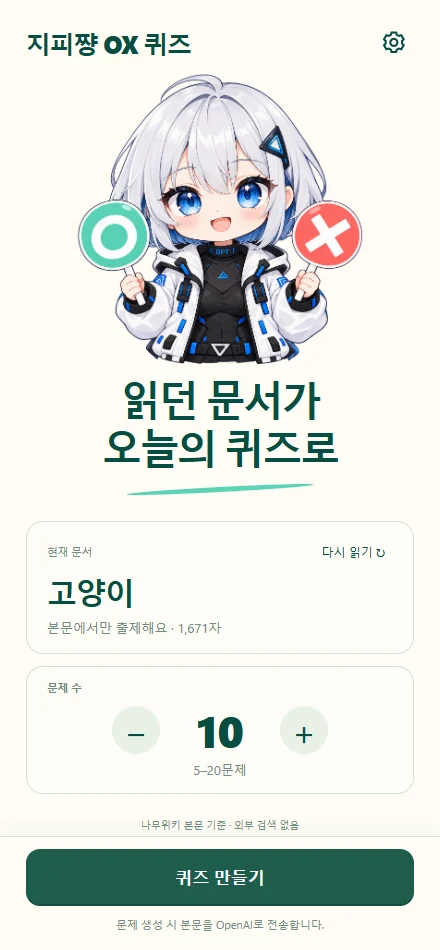
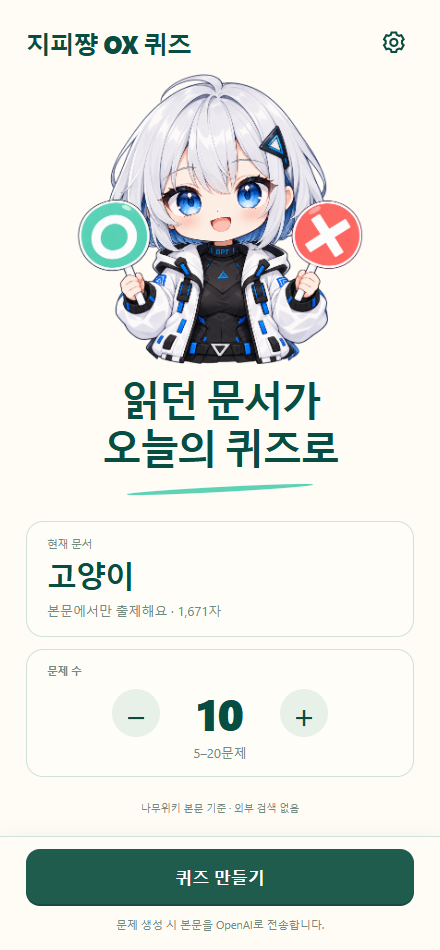
Release Day 018 0.1.7 with automatic document selection

diff --git a/day-018-namuwiki-ox/extension/sidepanel.js b/day-018-namuwiki-ox/extension/sidepanel.js
@@ -3,7 +3,7 @@ import {models,generateQuiz} from './provider.js';
 import {DEFAULT_MODEL,questionCount,isArticleUrl,validateArticle,score} from './shared/quiz.mjs';
 const $=id=>document.getElementById(id);
 const el=(tag,text)=>{const n=document.createElement(tag);n.textContent=text;return n;};
-let auth={},article=null,report=null,questions=[],answers={},index=0,sourceTabId=null,busy=false,reading=false,controller=null,stale=false;
+let auth={},article=null,report=null,questions=[],answers={},index=0,sourceTabId=null,busy=false,reading=false,controller=null;
 let view='welcome',contextSupported=false,contextRevision=0,generationTimer=null,generationStartedAt=0;
 let articleIssue='';
 const windowId=(await chrome.windows.getCurrent()).id;
@@ -26,22 +26,41 @@ function selectSettingsTab(name,focus=false){
 function renderView(){
   const settingsOpen=!$('settings').hidden;
   $('panel-content').hidden=settingsOpen;
-  for(const name of ['welcome','game','result'])$(name).hidden=busy || !contextSupported || view!==name;
-  $('generation').hidden=!busy;$('unsupported').hidden=busy || contextSupported;
-  $('unsupported-quiz').hidden=!report;
-  $('page-update').hidden=busy || !contextSupported || !stale || !auth.sharing;
+  for(const name of ['welcome','game','result'])$(name).hidden=busy || (name==='welcome' && !contextSupported) || view!==name;
+  $('generation').hidden=!busy;$('unsupported').hidden=busy || contextSupported || view!=='welcome';
   const create=!busy && contextSupported && view==='welcome' && !!auth.sharing;
-  const next=!busy && contextSupported && view==='game' && typeof answers[questions[index]?.id]==='boolean';
+  const next=!busy && view==='game' && typeof answers[questions[index]?.id]==='boolean';
   $('quiz-navigation').hidden=settingsOpen || (!create && !next);
   $('generate').hidden=!create;$('generation-disclosure').hidden=!create;$('next').hidden=!next;
 }
-async function syncContext(){
+async function syncContext({reload=false}={}){
   const revision=++contextRevision;
   const [active]=await chrome.tabs.query({active:true,windowId});
-  let supported=isArticleUrl(active?.url);
-  if(!supported && active?.url?.startsWith(chrome.runtime.getURL('')) && sourceTabId){const source=await chrome.tabs.get(sourceTabId).catch(()=>null);supported=source?.windowId===windowId && isArticleUrl(source.url);}
+  let tab=active;
+  if(!isArticleUrl(tab?.url) && active?.url?.startsWith(chrome.runtime.getURL('')) && sourceTabId){const source=await chrome.tabs.get(sourceTabId).catch(()=>null);if(source?.windowId===windowId && isArticleUrl(source.url))tab=source;}
   if(revision!==contextRevision)return;
-  contextSupported=!!supported;renderView();controls();
+  contextSupported=isArticleUrl(tab?.url);
+  const same=tab?.id===sourceTabId && article?.url.split('#')[0]===tab?.url?.split('#')[0];
+  if(!contextSupported){article=null;articleIssue='';reading=false;controls();return;}
+  sourceTabId=tab.id;
+  if(!auth.sharing){reading=false;controls();return;}
+  if(same && !reload && tab.status!=='loading'){reading=false;controls();return;}
+  article=null;articleIssue='';reading=true;
+  $('article-title').textContent='본문을 읽고 있어요…';$('article-info').textContent='본문에서만 출제해요';controls();
+  // Wait for the completed document instead of capturing the previous DOM on navigation.
+  if(tab.status==='loading')return;
+  try{
+    const {captured,issue}=await capture(tab);
+    if(revision!==contextRevision)return;
+    article=captured;articleIssue=issue;
+    $('article-title').textContent=article.title;
+    const chars=article.blocks.reduce((n,b)=>n+b.text.length,0);
+    $('article-info').textContent=`본문에서만 출제해요 · ${chars.toLocaleString()}자${article.truncated?' · 일부 본문':''}`;
+    if(view==='welcome' && !busy)message(!issue && article.truncated?'긴 문서라 화면에서 추출한 본문 중 앞부분 최대 60,000자만 출제 범위에 포함돼요.':'');
+  }catch(error){
+    if(revision!==contextRevision)return;
+    articleIssue=error.message;$('article-title').textContent='문서를 읽지 못했어요';$('article-info').textContent='문서를 다시 열면 본문을 자동으로 읽어요';
+  }finally{if(revision===contextRevision){reading=false;controls();}}
 }
 function generationStage(stage){
   const stages=['reading','creating','checking'],current=stages.indexOf(stage);
@@ -52,15 +71,15 @@ function controls(){
   $('generate').textContent=reading?'본문 읽는 중…':articleIssue || '퀴즈 만들기';
   $('generate').classList.toggle('unavailable',!!articleIssue);
   $('generate').title=articleIssue;
-  for(const id of ['count','read-page','refresh-page','model','fast','reload-models','clear-quiz'])$(id).disabled=busy || reading;
+  for(const id of ['count','model','fast','reload-models','clear-quiz'])$(id).disabled=busy || reading;
   $('minus').disabled=busy || Number($('count').value)<=5;$('plus').disabled=busy || Number($('count').value)>=20;
   $('stop').disabled=!busy;renderView();
 }
 async function save(){
   if(!report){await chrome.storage.session.remove(sessionKey);return;}
-  await chrome.storage.session.set({[sessionKey]:{report,questions,answers,index,sourceTabId,stale}});
+  await chrome.storage.session.set({[sessionKey]:{report,questions,answers,index,sourceTabId,view}});
 }
-function clear(){controller?.abort();article=null;articleIssue='';report=null;questions=[];answers={};index=0;sourceTabId=null;stale=false;view='welcome';void chrome.storage.session.remove(sessionKey);$('article-title').textContent='나무위키 문서를 열어 주세요';$('article-info').textContent='본문에서만 출제해요';controls();}
+function clear(){controller?.abort();contextRevision++;reading=false;article=null;articleIssue='';report=null;questions=[];answers={};index=0;sourceTabId=null;view='welcome';void chrome.storage.session.remove(sessionKey);$('article-title').textContent='나무위키 문서를 열어 주세요';$('article-info').textContent='본문에서만 출제해요';controls();}
 async function refreshAuth(){
   const was=auth.sharing;auth=await rpc('auth.status');
   $('login-gate').hidden=!!auth.sharing;$('workspace').hidden=!auth.sharing;
@@ -72,32 +91,13 @@ async function refreshAuth(){
   if(auth.error)message(auth.error);
   controls();return !!auth.sharing && !was;
 }
-async function activeArticleTab(){
-  const [active]=await chrome.tabs.query({active:true,windowId});
-  if(isArticleUrl(active?.url))return active;
-  // Only the extension's own test/full-page view or login result can reuse its source.
-  // An unrelated active website must never silently read a previously visited document.
-  if(active?.url?.startsWith(chrome.runtime.getURL('')) && sourceTabId){const tab=await chrome.tabs.get(sourceTabId).catch(()=>null);if(tab?.windowId===windowId && isArticleUrl(tab.url))return tab;}
-  throw Error('현재 창의 나무위키 문서 탭으로 돌아가서 다시 읽어 주세요.');
-}
-async function capture(){
-  const tab=await activeArticleTab();
+async function capture(tab){
   const result=await chrome.scripting.executeScript({target:{tabId:tab.id},func:extractArticle});
   if(!result[0]?.result)throw Error('본문을 읽지 못했어요. 나무위키 문서가 열린 뒤 다시 시도해 주세요.');
   const captured=result[0].result;let issue='';
   try{validateArticle(captured);}catch(error){if(!['article_too_short','article_too_long'].includes(error.code))throw error;issue=error.message;}
-  if(captured.url.split('#')[0]!==tab.url.split('#')[0])throw Error('문서가 이동했어요. 다시 읽어 주세요.');
-  sourceTabId=tab.id;article=captured;articleIssue=issue;stale=false;
-  $('article-title').textContent=article.title;
-  const chars=article.blocks.reduce((n,b)=>n+b.text.length,0);
-  $('article-info').textContent=`본문에서만 출제해요 · ${chars.toLocaleString()}자${article.truncated?' · 일부 본문':''}`;
-  return captured;
-}
-async function readPage(){
-  if(busy || reading || !auth.sharing)return;reading=true;controls();
-  try{await capture();message(!articleIssue && article.truncated?'긴 문서라 화면에서 추출한 본문 중 앞부분 최대 60,000자만 출제 범위에 포함돼요.':'');return true;}
-  catch(e){article=null;articleIssue=e.message;message('');$('article-title').textContent='문서를 읽지 못했어요';$('article-info').textContent='나무위키 문서를 열고 다시 읽어 주세요';return false;}
-  finally{reading=false;controls();}
+  if(captured.url.split('#')[0]!==tab.url.split('#')[0])throw Error('이동한 문서의 본문을 읽고 있어요. 잠시 후 다시 시도해 주세요.');
+  return {captured,issue};
 }
 async function loadModels(){
   if(!auth.sharing)throw Error('ChatGPT를 먼저 연결해 주세요.');
@@ -110,7 +110,7 @@ async function loadModels(){
 function game(){
   const q=questions[index];if(!q)return results();
   view='game';renderView();
-  $('game-article').textContent=`${report.article.title}${stale?' · 출제 당시 본문':''}`;
+  $('game-article').textContent=report.article.title;
   $('progress-label').textContent=`${index+1} / ${questions.length} 문제`;
   $('live-score').textContent=`${score(questions,answers)}개 정답`;
   $('progress').max=questions.length;$('progress').value=Object.keys(answers).length;
@@ -141,24 +141,24 @@ function results(){
   }
 }
 async function generate(){
-  if(busy || !contextSupported || !auth.sharing || !$('count').reportValidity())return;
+  if(busy || reading || !contextSupported || !auth.sharing || !article || articleIssue || !$('count').reportValidity())return;
+  // Freeze this quiz's source before yielding. Automatic context updates only affect the next quiz.
+  const captured=article;
   busy=true;controller=new AbortController();settings(false);generationStage('reading');
   generationStartedAt=Date.now();$('generation-meta').textContent=`OX ${questionCount($('count').value)}문제를 준비하고 있어요.`;$('generation-elapsed').textContent='0초 경과';
   generationTimer=setInterval(()=>{$('generation-elapsed').textContent=`${Math.floor((Date.now()-generationStartedAt)/1000)}초 경과`;},1000);
-  controls();message('현재 탭의 본문을 다시 읽고 있어요…');$('generation-heading').focus();
+  controls();message('읽어 둔 본문으로 문제를 준비하고 있어요…');$('generation-heading').focus();
   try{
-    // Re-capture at the moment of the explicit send; do not reuse an old page snapshot.
-    const captured=await capture();controller.signal.throwIfAborted();
-    if(articleIssue){busy=false;home();message('');return;}
+    controller.signal.throwIfAborted();
     const selectedModel=$('model').value || DEFAULT_MODEL,count=questionCount($('count').value);
     const next=await generateQuiz(captured,selectedModel,count,controller.signal,{fast:$('fast').checked,onPhase:message,onStage:generationStage});
     controller.signal.throwIfAborted();
-    report=next;questions=next.questions;answers={};index=0;stale=false;
-    await save();settings(false);message('');game();$('question').focus();
+    report=next;questions=next.questions;answers={};index=0;game();
+    await save();settings(false);message('');$('question').focus();
   }catch(e){const text=controller.signal.aborted?'출제를 취소했어요.':e.message;busy=false;home();message(text);}
-  finally{clearInterval(generationTimer);generationTimer=null;busy=false;controller=null;controls();if(view==='game' && contextSupported)$('question').focus();}
+  finally{clearInterval(generationTimer);generationTimer=null;busy=false;controller=null;controls();if(view==='game')$('question').focus();}
 }
-function home(){view='welcome';renderView();}
+function home(){view='welcome';renderView();void syncContext().catch(e=>message(e.message));void save();}
 function retry(onlyWrong){const missed=questions.filter(q=>answers[q.id]!==q.answer);questions=onlyWrong?missed:report.questions;answers={};index=0;message('같은 문제로 다시 풀어요. 새 모델 요청은 보내지 않아요.');game();void save();}
 function wire(id,fn){$(id).addEventListener('click',()=>Promise.resolve().then(fn).catch(e=>message(e.message)));}
 wire('settings-toggle',()=>settings($('settings').hidden));wire('settings-close',()=>settings(false));
@@ -170,11 +170,10 @@ for(const name of ['general','creator']){
 for(const id of ['login','gate-login'])wire(id,async()=>{await rpc('auth.login');await refreshAuth();});
 for(const id of ['cancel-login','gate-cancel'])wire(id,async()=>{await rpc('auth.cancel');await refreshAuth();});
 wire('logout',async()=>{controller?.abort();const r=await rpc('auth.logout');await chrome.storage.session.remove(sessionKey);await refreshAuth();message(r.revoked?'ChatGPT 연결과 이 기기의 인증정보를 지웠어요.':'이 기기의 인증정보를 지웠어요. OpenAI 측 연결 해제는 확인하지 못했어요.');});
-wire('clear-quiz',()=>{clear();message('현재 문제와 답을 지웠어요.');});wire('read-page',readPage);wire('reload-models',loadModels);
-wire('refresh-page',async()=>{if(await readPage()){home();await save();}});
+wire('clear-quiz',async()=>{clear();await syncContext();message('현재 문제와 답을 지웠어요.');});wire('reload-models',loadModels);
 wire('generate',generate);wire('stop',()=>controller?.abort());wire('answer-o',()=>answer(true));wire('answer-x',()=>answer(false));
 wire('next',async()=>{index++;game();$('panel-content').scrollTop=0;await save();if(index<questions.length)$('question').focus({preventScroll:true});});
-wire('leave-game',home);wire('new-quiz',async()=>{home();await readPage();});wire('retry-all',()=>retry(false));wire('retry-wrong',()=>retry(true));
+wire('leave-game',home);wire('new-quiz',home);wire('retry-all',()=>retry(false));wire('retry-wrong',()=>retry(true));
 async function changeCount(delta){$('count').value=Math.min(20,Math.max(5,questionCount($('count').value)+delta));await chrome.storage.local.set({questionCount:Number($('count').value)});controls();}
 wire('minus',()=>changeCount(-1));wire('plus',()=>changeCount(1));
 $('count').addEventListener('input',controls);$('count').addEventListener('change',()=>{if($('count').validity.valid)void chrome.storage.local.set({questionCount:Number($('count').value)});controls();});
@@ -182,15 +181,10 @@ $('model').addEventListener('change',()=>void chrome.storage.local.set({selected
 $('fast').addEventListener('change',()=>void chrome.storage.local.set({fastMode:$('fast').checked}));
 document.addEventListener('keydown',e=>{if(e.repeat || e.ctrlKey || e.metaKey || e.altKey || /INPUT|SELECT|TEXTAREA|BUTTON/.test(e.target.tagName) || !$('settings').hidden || $('game').hidden)return;if(e.key.toLowerCase()==='o')answer(true);if(e.key.toLowerCase()==='x')answer(false);});
 document.addEventListener('keydown',e=>{if(e.key==='Escape' && !$('settings').hidden){e.preventDefault();settings(false);}});
-function changed(){
-  if(!article && !report && !busy)return;stale=true;controller?.abort();
-  message(report?'탭이나 문서가 바뀌었어요. 풀던 문제는 출제 당시 본문 기준이에요. 새 출제는 문서 내용 갱신하기를 눌러 주세요.':'탭이나 문서가 바뀌었어요. 문서 내용 갱신하기를 눌러 현재 본문을 읽어 주세요.');
-  if(view==='game')game();renderView();void save();
-}
-chrome.tabs.onUpdated.addListener((id,info,tab)=>{if(tab.windowId!==windowId)return;if(id===sourceTabId && (info.url || info.status==='loading'))changed();if(info.url || info.status)void syncContext().catch(e=>message(e.message));});
-chrome.tabs.onActivated.addListener(({tabId,windowId:id})=>{if(id!==windowId)return;if(sourceTabId && tabId!==sourceTabId)changed();void syncContext().catch(e=>message(e.message));});
-chrome.tabs.onRemoved.addListener(id=>{if(id===sourceTabId)changed();void syncContext().catch(()=>{});});
-chrome.runtime.onMessage.addListener(event=>{if(event?.type==='auth.changed')void refreshAuth().then(added=>{if(added)return readPage();}).catch(e=>message(e.message));});
+chrome.tabs.onUpdated.addListener((id,info,tab)=>{if(tab.windowId===windowId && (tab.active || id===sourceTabId) && (info.url || info.status || info.title))void syncContext({reload:info.status==='complete' || !!info.title}).catch(e=>message(e.message));});
+chrome.tabs.onActivated.addListener(({windowId:id})=>{if(id===windowId)void syncContext().catch(e=>message(e.message));});
+chrome.tabs.onRemoved.addListener(()=>{void syncContext().catch(()=>{});});
+chrome.runtime.onMessage.addListener(event=>{if(event?.type==='auth.changed')void refreshAuth().then(added=>{if(added)return syncContext();}).catch(e=>message(e.message));});
 const prefs=await chrome.storage.local.get(['selectedModel','fastMode','questionCount']);
 $('fast').checked=prefs.fastMode!==false;$('count').value=questionCount(prefs.questionCount);
 if(prefs.selectedModel && prefs.selectedModel!==DEFAULT_MODEL){const o=el('option',prefs.selectedModel);o.value=prefs.selectedModel;$('model').append(o);$('model').value=prefs.selectedModel;}
@@ -199,8 +193,9 @@ try{
   await refreshAuth();
   const saved=(await chrome.storage.session.get(sessionKey))[sessionKey];
   if(auth.sharing && saved?.report && Array.isArray(saved.questions) && saved.questions.length){
-    report=saved.report;article=validateArticle(report.article);questions=saved.questions;answers=saved.answers || {};index=Math.max(0,Math.min(questions.length,Number(saved.index)||0));sourceTabId=saved.sourceTabId;stale=!!saved.stale;
-    $('article-title').textContent=article.title;$('article-info').textContent='이전 출제 본문 · 새 출제 시 다시 읽어요';game();
-  }else if(auth.sharing && contextSupported)await readPage();
+    report=saved.report;validateArticle(report.article);questions=saved.questions;answers=saved.answers || {};index=Math.max(0,Math.min(questions.length,Number(saved.index)||0));sourceTabId=saved.sourceTabId;
+    if(saved.view!=='welcome')game();
+  }
+  await syncContext();
 }catch(e){message(e.message);}
 controls();

diff --git a/day-018-namuwiki-ox/extension/panel.css b/day-018-namuwiki-ox/extension/panel.css
@@ -1,5 +1,5 @@
 :root{color-scheme:light;--bg:#fffcf5;--ink:#084d41;--muted:#718b81;--line:#cfe2d6;--mint:#5dd2b5;--coral:#f5797b;--surface:#fffefb;font-family:"Malgun Gothic","Apple SD Gothic Neo",system-ui,sans-serif;color:var(--ink);background:var(--bg);font-size:14px}*{box-sizing:border-box}[hidden]{display:none!important}body{margin:0}main{padding:24px 26px 18px;max-width:520px;margin:auto}header{display:flex;align-items:center;justify-content:space-between;gap:8px;margin-bottom:12px}.brand{font-weight:900;font-size:25px;letter-spacing:-1.2px}button,input,select{font:inherit;color:inherit}button{cursor:pointer;border:0;background:none;border-radius:14px;transition:background .15s,transform .15s}button:active:not(:disabled){transform:translateY(1px)}button:focus-visible,summary:focus-visible,select:focus-visible,input:focus-visible{outline:3px solid #df9a39;outline-offset:3px}button:disabled{opacity:.46;cursor:default}.icon{width:38px;height:38px;padding:5px;border-radius:50%}.icon svg{width:100%;height:100%}.icon:hover,.text-button:hover{background:#e9f2e9}.host{display:block;width:76%;max-width:290px;height:auto;margin:10px auto 12px}.headline{font-size:clamp(30px,9vw,43px);line-height:1.22;letter-spacing:-1.8px;text-align:center;margin:8px 0 29px;font-weight:900}.headline:after{content:"";display:block;height:5px;background:var(--mint);width:48%;border-radius:50%;margin:14px auto 0;transform:rotate(-3deg)}h1,h2,p{overflow-wrap:anywhere}h1{font-size:24px}h2{font-size:21px;margin:8px 0}p{line-height:1.65;margin:10px 0}.muted{color:var(--muted)}.small,small{font-size:12px;line-height:1.6}.row{display:flex;justify-content:space-between;align-items:center;gap:8px}.text-button{font-size:12px;padding:7px 8px;white-space:nowrap}.document,.quantity{border:1px solid var(--line);border-radius:17px;padding:15px 20px;margin:12px 0;background:rgba(255,255,255,.2)}.document h2{font-size:30px;letter-spacing:-1px;margin:4px 0}.document p{margin:0;font-size:13px}.quantity{padding-top:14px;padding-bottom:12px}.quantity label{font-weight:700;color:var(--muted)}.quantity small{display:block;text-align:center;font-size:13px}.stepper{display:flex;align-items:center;justify-content:center;gap:20px;margin:6px auto 1px}.stepper button{background:#e8f1e8;border-radius:50%;width:48px;height:48px;font-size:35px;line-height:1}.stepper input{appearance:textfield;-moz-appearance:textfield;width:80px;text-align:center;background:none;border:0;font-weight:900;font-size:44px;padding:0}.stepper input::-webkit-inner-spin-button,.stepper input::-webkit-outer-spin-button{appearance:none}.primary,.secondary{width:100%;padding:16px 12px;margin:8px 0;font-weight:800;font-size:17px}.primary{background:#205c4d;color:#fff;box-shadow:0 2px 0 #164c40}.primary:hover:not(:disabled){background:#164c40}.secondary{border:1px solid var(--line);background:#f3f6ed;font-size:14px}.disclosure{color:var(--muted);font-size:11px;text-align:center;margin:16px -4px 8px}#login-gate{text-align:center}#login-gate p{color:var(--muted)}footer{text-align:center;color:var(--muted);font-size:10px;margin:24px 0 0}.notice{padding:13px 15px;border:1px solid #d8c38d;border-radius:12px;background:#fff2d4;font-size:13px;line-height:1.6;margin:14px 0}.notice.busy:before{content:"";display:inline-block;width:12px;height:12px;border:2px solid var(--ink);border-right-color:transparent;border-radius:50%;animation:spin 1s linear infinite;margin-right:8px}@keyframes spin{to{transform:rotate(360deg)}}#settings{border-bottom:1px solid var(--line);padding-bottom:20px;margin-bottom:20px}#settings h1{font-size:21px;margin:10px 0}#settings label:not(.toggle){display:block;font-weight:700;margin:20px 0 9px}select{width:100%;border:1px solid var(--line);border-radius:10px;padding:12px;background:var(--surface)}.toggle{display:flex;justify-content:space-between;align-items:center;margin:18px 0}.toggle small{display:block;color:var(--muted);margin-top:4px}.toggle input{appearance:none;width:44px;height:25px;background:#b0bfb4;border-radius:20px;position:relative;flex-shrink:0;cursor:pointer}.toggle input:after{content:"";position:absolute;background:#fff;border-radius:50%;width:19px;height:19px;top:3px;left:3px;transition:left .15s}.toggle input:checked{background:#205c4d}.toggle input:checked:after{left:22px}details{margin:20px 0}summary{cursor:pointer;font-weight:700;font-size:13px}.game-top{display:flex;align-items:center;gap:12px;margin:15px 0 24px}.game-top img{width:85px;height:auto}.game-top h1{font-size:20px;line-height:1.5;margin:2px 0}.game-top p{font-size:12px;margin:0}progress{width:100%;height:7px;appearance:none;margin:12px 0 20px}progress::-webkit-progress-bar{background:#e1ece1;border-radius:8px}progress::-webkit-progress-value{background:#60cdb0;border-radius:8px}.question{padding:20px 0}#question{font-size:23px;line-height:1.65;font-weight:800;min-height:90px;margin:0 0 28px;letter-spacing:-.6px}.answers{display:flex;gap:16px}.answers button{width:50%;border:2px solid var(--mint);background:#e7f8ee;font-size:54px;font-weight:900;padding:16px 4px;color:#23866c}.answers #answer-x{border-color:#f29c9d;background:#fff0eb;color:#d36367}.answers span{display:block;font-size:13px;font-weight:700;margin-top:4px}.answers .chosen{box-shadow:0 0 0 3px var(--ink)}#feedback h2{font-size:23px;margin-top:22px}.evidence{border-left:3px solid var(--mint);padding:12px 14px;background:#f1f6ec;border-radius:0 12px 12px 0;margin:18px 0}.evidence b{font-size:12px}blockquote{font-size:13px;line-height:1.8;margin:8px 0 0;color:#3c6154;white-space:pre-wrap;overflow-wrap:anywhere}#result{text-align:center}.result-host{display:block;width:180px;height:auto;margin:25px auto 10px}#result h1{font-size:25px;letter-spacing:-1px}.final-score{font-size:48px;font-weight:900;margin:15px 0;line-height:1.3}.review{text-align:left;border-top:1px solid var(--line);padding-top:22px}.review article{border-bottom:1px solid var(--line);padding:14px 0}.review h2{font-size:16px}.review p{font-size:13px}#request-meta{line-height:1.8}#correction:empty{display:none}@media(max-width:350px){main{padding:18px}.brand{font-size:22px}.host{width:72%}.headline{font-size:30px}.stepper{gap:12px}.document{padding:12px 16px}.game-top h1{font-size:18px}}@media(prefers-reduced-motion:reduce){*{animation:none!important;transition:none!important}}
-.settings-tabs{display:flex;gap:4px;border-bottom:1px solid var(--line);margin:12px 0 22px}.settings-tabs button{flex:1;border-radius:0;padding:11px 6px;border-bottom:3px solid transparent;color:var(--muted);font-size:14px;font-weight:700}.settings-tabs button[aria-selected="true"]{border-bottom-color:var(--ink);color:var(--ink)}.creator{padding:10px 0}.creator-name{display:inline-block;font-size:25px;font-weight:900;margin-bottom:10px;color:var(--ink)}.creator p{line-height:1.9}.creator a{color:var(--ink);text-underline-offset:3px}.settings-footer{border-top:1px solid var(--line);padding-top:14px;margin-top:20px}.settings-footer a{color:var(--muted);font-size:11px;text-underline-offset:3px}.page-update{border:1px solid var(--line);border-radius:16px;background:#eff7ee;padding:16px;margin:16px 0}.page-update p{font-size:13px;margin:0 0 4px}.page-update .primary{font-size:15px;padding:13px;margin-bottom:8px}.page-update small{display:block;text-align:center;color:var(--muted)}.generation{text-align:center;padding:18px 0 12px}.generation-portrait{position:relative;width:190px;margin:15px auto 24px}.generation-portrait img{display:block;width:170px;height:auto;margin:auto}.generation-spinner{position:absolute;right:-6px;bottom:10px;width:40px;height:40px;border:5px solid #d5e9db;border-top-color:#205c4d;border-right-color:#5dd2b5;border-radius:50%;background:var(--bg);animation:spin 1s linear infinite}.generation h1{font-size:25px;letter-spacing:-1px;margin:14px 0 6px}.generation-status{min-height:56px;margin:18px 0 20px;font-weight:700;font-size:15px;line-height:1.8}.generation-steps{list-style:none;counter-reset:phase;display:flex;gap:8px;padding:0;margin:26px 0 16px;justify-content:center}.generation-steps li{counter-increment:phase;flex:1;max-width:125px;color:var(--muted);font-size:12px;line-height:1.5}.generation-steps li:before{content:counter(phase);display:flex;align-items:center;justify-content:center;width:30px;height:30px;margin:0 auto 9px;border:1px solid var(--line);border-radius:50%;font-size:13px;font-weight:800;background:var(--surface)}.generation-steps .current{color:var(--ink);font-weight:800}.generation-steps .current:before{background:#205c4d;color:white;border-color:#205c4d;box-shadow:0 0 0 4px #e0f1e5}.generation-steps .done:before{content:'✓';background:#dff5e8;color:#205c4d;border-color:#b7dcc7}.generation-progress{margin:8px 0;height:7px}.generation-progress:indeterminate{accent-color:#205c4d}.generation #stop{max-width:240px;margin:12px auto}.new-quiz{margin-top:20px;padding:18px 12px;font-size:18px}.replay-actions{display:flex;justify-content:center;gap:10px;flex-wrap:wrap;margin:9px 0 25px}.replay-actions button{border:1px solid var(--line);padding:9px 12px;font-size:12px;font-weight:500}.unsupported{text-align:center;padding:20px 0}.unsupported>img{display:block;width:220px;max-width:85%;height:auto;margin:20px auto 24px}.unsupported h1{font-size:25px;letter-spacing:-1px;line-height:1.4;margin:12px 0}.unsupported>.muted{font-size:14px;line-height:1.9;margin:17px 0 26px}.unsupported .primary{display:block;border-radius:14px;text-decoration:none;text-align:center;margin:22px 0}.unsupported>.small{margin:12px 0}@media(max-width:350px){.generation h1,.unsupported h1{font-size:22px}.generation-steps{gap:4px}.replay-actions{gap:6px}.replay-actions button{font-size:11px;padding:9px}.settings-tabs{margin-top:8px}}
+.settings-tabs{display:flex;gap:4px;border-bottom:1px solid var(--line);margin:12px 0 22px}.settings-tabs button{flex:1;border-radius:0;padding:11px 6px;border-bottom:3px solid transparent;color:var(--muted);font-size:14px;font-weight:700}.settings-tabs button[aria-selected="true"]{border-bottom-color:var(--ink);color:var(--ink)}.creator{padding:10px 0}.creator-name{display:inline-block;font-size:25px;font-weight:900;margin-bottom:10px;color:var(--ink)}.creator p{line-height:1.9}.creator a{color:var(--ink);text-underline-offset:3px}.settings-footer{border-top:1px solid var(--line);padding-top:14px;margin-top:20px}.settings-footer a{color:var(--muted);font-size:11px;text-underline-offset:3px}.generation{text-align:center;padding:18px 0 12px}.generation-portrait{position:relative;width:190px;margin:15px auto 24px}.generation-portrait img{display:block;width:170px;height:auto;margin:auto}.generation-spinner{position:absolute;right:-6px;bottom:10px;width:40px;height:40px;border:5px solid #d5e9db;border-top-color:#205c4d;border-right-color:#5dd2b5;border-radius:50%;background:var(--bg);animation:spin 1s linear infinite}.generation h1{font-size:25px;letter-spacing:-1px;margin:14px 0 6px}.generation-status{min-height:56px;margin:18px 0 20px;font-weight:700;font-size:15px;line-height:1.8}.generation-steps{list-style:none;counter-reset:phase;display:flex;gap:8px;padding:0;margin:26px 0 16px;justify-content:center}.generation-steps li{counter-increment:phase;flex:1;max-width:125px;color:var(--muted);font-size:12px;line-height:1.5}.generation-steps li:before{content:counter(phase);display:flex;align-items:center;justify-content:center;width:30px;height:30px;margin:0 auto 9px;border:1px solid var(--line);border-radius:50%;font-size:13px;font-weight:800;background:var(--surface)}.generation-steps .current{color:var(--ink);font-weight:800}.generation-steps .current:before{background:#205c4d;color:white;border-color:#205c4d;box-shadow:0 0 0 4px #e0f1e5}.generation-steps .done:before{content:'✓';background:#dff5e8;color:#205c4d;border-color:#b7dcc7}.generation-progress{margin:8px 0;height:7px}.generation-progress:indeterminate{accent-color:#205c4d}.generation #stop{max-width:240px;margin:12px auto}.new-quiz{margin-top:20px;padding:18px 12px;font-size:18px}.replay-actions{display:flex;justify-content:center;gap:10px;flex-wrap:wrap;margin:9px 0 25px}.replay-actions button{border:1px solid var(--line);padding:9px 12px;font-size:12px;font-weight:500}.unsupported{text-align:center;padding:20px 0}.unsupported>img{display:block;width:220px;max-width:85%;height:auto;margin:20px auto 24px}.unsupported h1{font-size:25px;letter-spacing:-1px;line-height:1.4;margin:12px 0}.unsupported>.muted{font-size:14px;line-height:1.9;margin:17px 0 26px}.unsupported .primary{display:block;border-radius:14px;text-decoration:none;text-align:center;margin:22px 0}.unsupported>.small{margin:12px 0}@media(max-width:350px){.generation h1,.unsupported h1{font-size:22px}.generation-steps{gap:4px}.replay-actions{gap:6px}.replay-actions button{font-size:11px;padding:9px}.settings-tabs{margin-top:8px}}
 
 .primary.unavailable:disabled{opacity:1;background:#fff0db;color:#75471f;border:1px solid #d7b17d;box-shadow:none;cursor:not-allowed;white-space:normal;line-height:1.65;font-size:14px}
 

diff --git a/day-018-namuwiki-ox/extension/sidepanel.html b/day-018-namuwiki-ox/extension/sidepanel.html
@@ -24,8 +24,7 @@
 <div id="panel-content">
   <header><span class="brand">지피쨩 OX 퀴즈</span><button id="settings-toggle" class="icon" aria-label="설정 열기" aria-expanded="false"><svg viewBox="0 0 24 24" fill="none" stroke="currentColor" stroke-width="1.8" aria-hidden="true"><path d="m9 3-.5 2-2 .9-1.9-.5-2 3.4L4 10.2v2.3l-1.4 1.4 2 3.4 1.9-.5 2 .9.5 2h4l.5-2 2-.9 1.9.5 2-3.4-1.4-1.4v-2.3l1.4-1.4-2-3.4-1.9.5-2-.9-.5-2Z"/><circle cx="11" cy="11.5" r="3"/></svg></button></header>
   <div id="message" class="notice" role="status" aria-live="polite" hidden></div>
-  <section id="unsupported" class="unsupported" hidden aria-labelledby="unsupported-heading"><img src="assets/gpichan-wiki-guide.webp" alt="위키 책을 펼치고 문서로 안내하는 지피쨩" width="220" height="220"><h1 id="unsupported-heading">나무위키 문서에서 만나요</h1><p class="muted">지금 탭은 나무위키 문서가 아니에요.<br>궁금한 문서를 열면 지피쨩이<br>그 본문으로 OX 퀴즈를 만들어 드려요.</p><a id="namuwiki-open" class="primary" href="https://namu.wiki/" target="_blank" rel="noopener noreferrer">나무위키 바로가기 ↗</a><p class="small muted">문서를 연 뒤 이 패널로 돌아오세요.</p><p id="unsupported-quiz" class="small muted" hidden>풀던 퀴즈와 답은 그대로 보관하고 있어요.</p></section>
-  <section id="page-update" class="page-update" hidden><p>현재 문서의 내용을 다시 반영할 수 있어요.</p><button id="refresh-page" class="primary">문서 내용 갱신하기 ↻</button><small>문제는 자동으로 새로 만들지 않아요.</small></section>
+  <section id="unsupported" class="unsupported" hidden aria-labelledby="unsupported-heading"><img src="assets/gpichan-wiki-guide.webp" alt="위키 책을 펼치고 문서로 안내하는 지피쨩" width="220" height="220"><h1 id="unsupported-heading">나무위키 문서에서 만나요</h1><p class="muted">지금 탭은 나무위키 문서가 아니에요.<br>궁금한 문서를 열면 지피쨩이<br>그 본문으로 OX 퀴즈를 만들어 드려요.</p><a id="namuwiki-open" class="primary" href="https://namu.wiki/" target="_blank" rel="noopener noreferrer">나무위키 바로가기 ↗</a><p class="small muted">문서를 열면 출제 대상을 자동으로 바꿔요.</p></section>
   <section id="generation" class="generation" aria-labelledby="generation-heading" aria-busy="true" hidden>
     <div class="generation-portrait"><img src="assets/gpichan-quiz.png" alt="문제를 준비하는 지피쨩" width="170" height="170"><span class="generation-spinner" aria-hidden="true"></span></div>
     <h1 id="generation-heading" tabindex="-1">지피쨩이 출제 중이에요</h1>
@@ -41,7 +40,7 @@
     <h1 class="headline">읽던 문서가<br>오늘의 퀴즈로</h1>
     <div id="login-gate"><p>나무위키 읽다가, 지피쨩과 한 판!<br>ChatGPT 계정을 연결하고 시작해요.</p><button id="gate-login" class="primary">ChatGPT로 로그인</button><button id="gate-cancel" class="secondary" hidden>로그인 취소</button></div>
     <div id="workspace" hidden>
-      <section class="document"><div class="row"><span class="muted">현재 문서</span><button id="read-page" class="text-button">다시 읽기 ↻</button></div><h2 id="article-title">나무위키 문서를 열어 주세요</h2><p id="article-info" class="muted">본문에서만 출제해요</p></section>
+      <section class="document"><span class="muted">현재 문서</span><h2 id="article-title">나무위키 문서를 열어 주세요</h2><p id="article-info" class="muted">본문에서만 출제해요</p></section>
       <div class="quantity"><label for="count">문제 수</label><div class="stepper"><button id="minus" aria-label="문제 수 줄이기">−</button><input id="count" aria-label="문제 수" type="number" min="5" max="20" step="1" value="10"><button id="plus" aria-label="문제 수 늘리기">+</button></div><small class="muted">5–20문제</small></div>
     </div>
   </section>

diff --git a/day-018-namuwiki-ox/docs/DATA.md b/day-018-namuwiki-ox/docs/DATA.md
@@ -4,7 +4,7 @@
 
 확장의 통신 대상은 인증용 `auth.openai.com`, 모델용 `api.openai.com`입니다. 나무위키 본문은 사용자가 열어 둔 탭에서 Chrome의 isolated world로 읽고, 확장이 나무위키나 외부 출처를 별도로 요청하지 않습니다. OAuth용 `http://127.0.0.1/*` 권한은 자신의 로그인 탭 콜백 관찰에만 사용하며 로컬 서버를 실행하지 않습니다.
 
-**퀴즈 만들기**를 누를 때 현재 탭을 다시 읽습니다. 문서 제목, 추출한 본문 구간과 소제목, 선택한 문제 수를 OpenAI로 전송합니다. 통상 출제 1회와 정답·해설 대조 1회로 구성됩니다. Fast/JSON 형식 거절에는 Day 17과 같은 호환 재요청이 생길 수 있습니다. 모델 요청에는 `store: false`를 지정하며 검색 도구·검색 출처·페이지 이미지·쿠키·폼 입력·브라우저 이력을 첨부하지 않습니다. 이 옵션만으로 OpenAI 자체 보관 정책 전체가 바뀌는 것은 아닙니다.
+문서·탭이 바뀌면 현재 나무위키 본문을 확장 안에서 자동으로 읽어 다음 출제 대상으로 준비합니다. **퀴즈 만들기**를 누르면 그때 준비된 문서 제목, 추출한 본문 구간과 소제목, 선택한 문제 수를 OpenAI로 전송합니다. 출제를 시작한 뒤 문서나 탭을 바꿔도 해당 퀴즈의 본문과 진행 상황은 유지합니다. 문서 이동만으로 모델을 호출하지 않습니다. 통상 출제 1회와 정답·해설 대조 1회로 구성됩니다. Fast/JSON 형식 거절에는 호환 재요청이 생길 수 있습니다. 모델 요청에는 `store: false`를 지정하며 검색 도구·검색 출처·페이지 이미지·쿠키·폼 입력·브라우저 이력을 첨부하지 않습니다. 이 옵션만으로 OpenAI 자체 보관 정책 전체가 바뀌는 것은 아닙니다.
 
 본문은 `.wiki-content` 또는 실제 `s-1` 등의 절 앵커와 Vue 렌더러 경계로 확인된 본문 안의 표시된 텍스트를 DOM 순서로 추출합니다. `document.body` 전체로 범위를 넓히지 않으며, 본문 경계를 식별하지 못하면 중단합니다. 현재 나무위키의 해시 CSS 클래스명을 고정값으로 사용하지 않습니다. 숨김·접힌 문단·각주·목차·메뉴·폼·편집 영역·iframe 등은 제외합니다. 외부 링크의 표시 텍스트가 문장에 포함될 수 있으나 그 주소를 따라가거나 독립 출처로 취급하지 않습니다. 이미지 OCR과 이미지 다운로드는 수행하지 않습니다. 문항당 근거는 정확한 단일 구간 인용으로 제한합니다. 2차 편집 단계에서 정답·해설을 확인하고 잘못되거나 애매한 초안을 고치거나 교체합니다. 인용·개수·형식 검사 실패에는 편집을 자동 재요청하며, 정상적인 경우 생성 1회와 편집 1회, 편집 복구가 필요한 경우 최대 생성 1회와 편집 3회를 요청합니다. 취소·인증 오류·네트워크 오류는 반복하지 않습니다. 정확한 본문 인용과 문항 수 검사는 유지합니다.
 

diff --git a/day-018-namuwiki-ox/docs/INSTALLATION.md b/day-018-namuwiki-ox/docs/INSTALLATION.md
@@ -1,6 +1,6 @@
 # 설치와 업데이트
 
-1. [0.1.6 실행 ZIP](https://github.com/hssum9409/daily_odd_builds-public/releases/download/day018-namuwiki-ox-v0.1.6/gpichan-namuwiki-ox-0.1.6.zip)을 받아 계속 보관할 폴더에 전부 압축 해제합니다.
+1. [0.1.7 실행 ZIP](https://github.com/hssum9409/daily_odd_builds-public/releases/download/day018-namuwiki-ox-v0.1.7/gpichan-namuwiki-ox-0.1.7.zip)을 받아 계속 보관할 폴더에 전부 압축 해제합니다.
 2. Chrome에서 `chrome://extensions`를 열고 **개발자 모드**를 켭니다.
 3. **압축해제된 확장 프로그램을 로드합니다**를 눌러 `manifest.json`이 있는 폴더를 선택합니다.
 4. 나무위키 문서 탭에서 확장 아이콘을 눌러 사이드패널을 엽니다.
@@ -12,6 +12,6 @@
 
 ‘퀴즈 만들기’와 답변 후의 ‘다음 문제 / 결과 보기’는 하단에 고정됩니다. 문제·해설·본문 근거는 그 위에서 스크롤합니다. 설정은 패널 전체 화면으로 열리고 초록색 ‘닫기’ 또는 `Esc`로 돌아갑니다.
 
-잘못되거나 애매한 초안은 자동으로 수정·교체합니다. 본문 길이 때문에 출제할 수 없으면 출제 버튼에 이유를 표시합니다. 문서가 로딩된 뒤 ‘다시 읽기’를 누르세요. 갱신을 완료하면 갱신 알림이 사라집니다. 나무위키의 접근 확인·로그인 제한을 우회하지 않습니다.
+잘못되거나 애매한 초안은 자동으로 수정·교체합니다. 본문 길이 때문에 출제할 수 없으면 출제 버튼에 이유를 표시합니다. 문서·탭을 바꾸면 본문을 자동으로 읽습니다. 출제 중이거나 풀고 있는 퀴즈는 다른 문서·사이트로 이동해도 원래 본문과 답안을 유지합니다. 나무위키 안내는 새 퀴즈 준비 화면에서만 표시합니다. 나무위키의 접근 확인·로그인 제한을 우회하지 않습니다.
 
-공개 소스를 사용한다면 이 폴더의 `extension/`을 직접 로드할 수 있습니다. [개발·로컬 검사](DEVELOPMENT.md) · [데이터 처리](DATA.md) · [릴리즈](https://github.com/hssum9409/daily_odd_builds-public/releases/tag/day018-namuwiki-ox-v0.1.6)
+공개 소스를 사용한다면 이 폴더의 `extension/`을 직접 로드할 수 있습니다. [개발·로컬 검사](DEVELOPMENT.md) · [데이터 처리](DATA.md) · [릴리즈](https://github.com/hssum9409/daily_odd_builds-public/releases/tag/day018-namuwiki-ox-v0.1.7)

diff --git a/day-018-namuwiki-ox/docs/RELEASE.md b/day-018-namuwiki-ox/docs/RELEASE.md
@@ -1,3 +1,21 @@
+# 0.1.7 · 문서 자동 반영 · 2026-11-05
+
+문서·탭이 바뀌면 다음 출제 대상을 자동으로 읽습니다. 출제 중이거나 풀고 있는 퀴즈는 기존 본문·답·진행 위치를 유지하며 나무위키 밖에서도 계속 진행합니다. 결과 화면도 유지하고, 새 퀴즈 준비 화면에서만 나무위키 안내 에셋을 표시합니다. 문서 변경 안내와 갱신·다시 읽기 버튼은 제거했습니다.
+
+## 이번 버전 검증
+
+- Windows의 설치된 Chrome과 Playwright 1.64.1 격리 프로필에서 합성 나무위키·OAuth·모델 흐름을 검사했습니다. 개인 Chrome 프로필·쿠키·토큰을 사용하거나 복사하지 않았습니다.
+- `npm run check`, `npm test` 44개, `npm run test:browser`를 통과했습니다. 문서/탭/클라이언트 이동 자동 반영, 출제 도중 이탈 후 원래 본문으로 완성, 다른 사이트에서 10문항·결과 진행, 답변 후 패널 재로드, 짧은 본문 자동 복구, 설정·취소·로그아웃을 검사했습니다.
+- 문서 이동만으로 모델을 호출하지 않았으며 관련 JavaScript·콘솔 오류가 없었습니다. 440×950 및 320×560·320×850에서 하단 고정 버튼과 가로 넘침도 검사했습니다.
+- `npm run package`로 동일 경로의 dist와 설치 ZIP을 갱신하고 원본·dist·ZIP의 28개 파일과 모든 바이트 일치를 확인했습니다. 공개 소스 스냅샷에서도 의존성 설치·검사·테스트·패키징을 수행했습니다.
+- 실제 사용자 계정의 신규 로그인·모델 호출, 실제 사이트의 모든 이동 방식, macOS/Linux·모바일 Chrome·Chrome 웹 스토어 설치는 이번 합성 검사로 확인한 것으로 취급하지 않습니다. GitHub Actions를 사용하지 않았습니다.
+
+기존 확장을 제거하지 말고 같은 설치 폴더에 새 파일을 교체한 뒤 Chrome 확장 관리 화면에서 새로고침하세요. 인증 저장 형식과 확장 경로는 유지합니다.
+
+[0.1.7 설치 ZIP·소스 ZIP·SHA-256](https://github.com/hssum9409/daily_odd_builds-public/releases/tag/day018-namuwiki-ox-v0.1.7) · [설치 안내](INSTALLATION.md)
+
+아래는 이전 릴리즈의 검증 기록입니다.
+
 # 0.1.6 · 인증 공통화
 
 [공통 모듈과 검증 범위](AUTH-MODULE.md). 기존 UI와 모델 설정은 유지합니다. 아래 이전 릴리즈의 해시와 검증 기록은 당시 버전의 기록입니다.

diff --git a/day-018-namuwiki-ox/docs/ARTWORK.md b/day-018-namuwiki-ox/docs/ARTWORK.md
@@ -12,3 +12,5 @@
 생성 일러스트는 실제 사이트·계정 사용 화면이 아닙니다. 이미지 생성 백엔드·별도 과금 등급은 도구가 공개하지 않아 확인하지 않았습니다. 원본 캐릭터 시트·참조 캐시·개인 생성 기록은 포함하지 않습니다.
 
 루트 MIT 라이선스는 코드와 문서에 적용되며 캐릭터·아이콘·생성 일러스트를 별도 포괄 허가하거나 제3자의 상표·캐릭터 권리를 부여하지 않습니다. OpenAI·나무위키 공식 로고나 공식 제품이라는 표시는 아닙니다.
+
+0.1.7의 `ui-ready.webp`는 2026-11-05 로컬 회귀 검사에서 실행한 실제 확장 HTML의 준비 화면(440×950)을 손실 없는 WebP로 변환한 캡처입니다. 본문·OAuth·모델은 합성 자료이며, 제거한 수동 갱신 버튼이 없는 현재 화면을 반영합니다. 기존 hero·promotion·feature 일러스트는 재사용했습니다.

diff --git a/day-018-namuwiki-ox/docs/DEVELOPMENT.md b/day-018-namuwiki-ox/docs/DEVELOPMENT.md
@@ -1,5 +1,7 @@
 # 공개 소스 개발
 
+0.1.7은 문서·탭을 바꾸면 다음 출제 대상을 자동 반영합니다. 출제·풀이·결과 화면은 현재 탭과 독립적으로 유지하며 문서 변경 안내와 갱신·다시 읽기 버튼을 제거했습니다.
+
 Node.js 22 이상(이번 검사는 24.19.0), Python 3, Chrome을 사용합니다. 확장 자체에는 Node/Python이 필요하지 않습니다.
 
 ```sh
